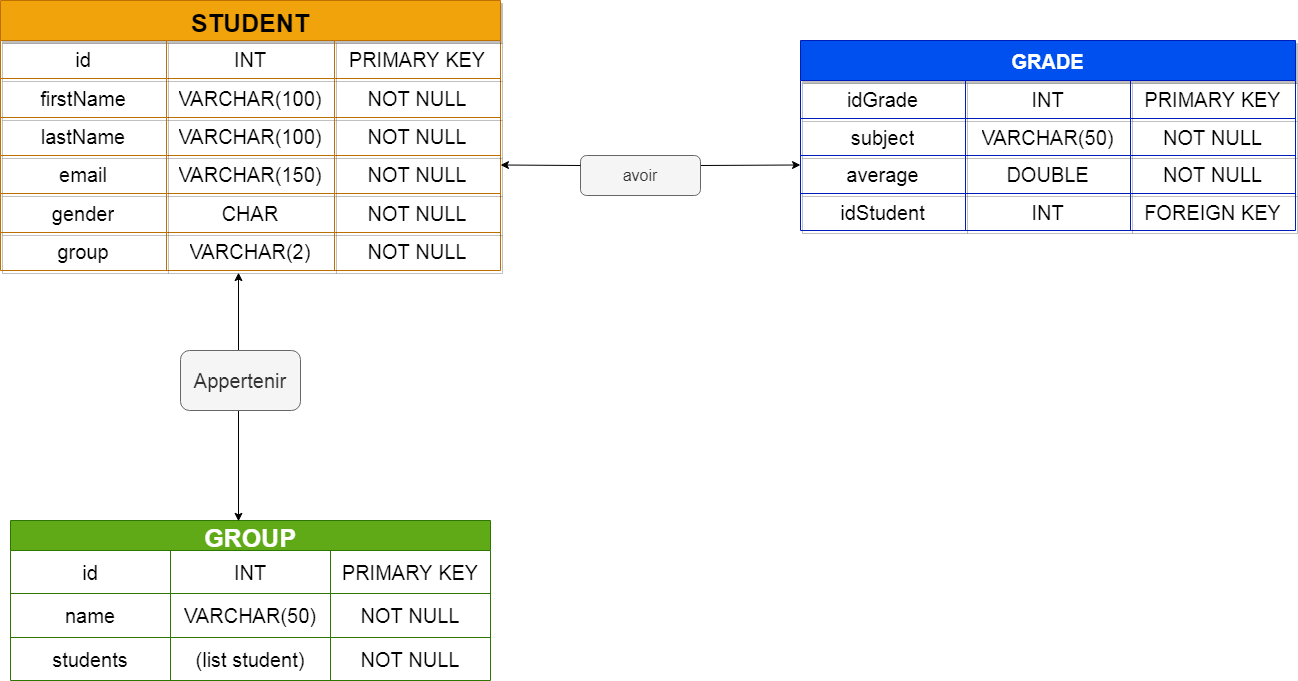
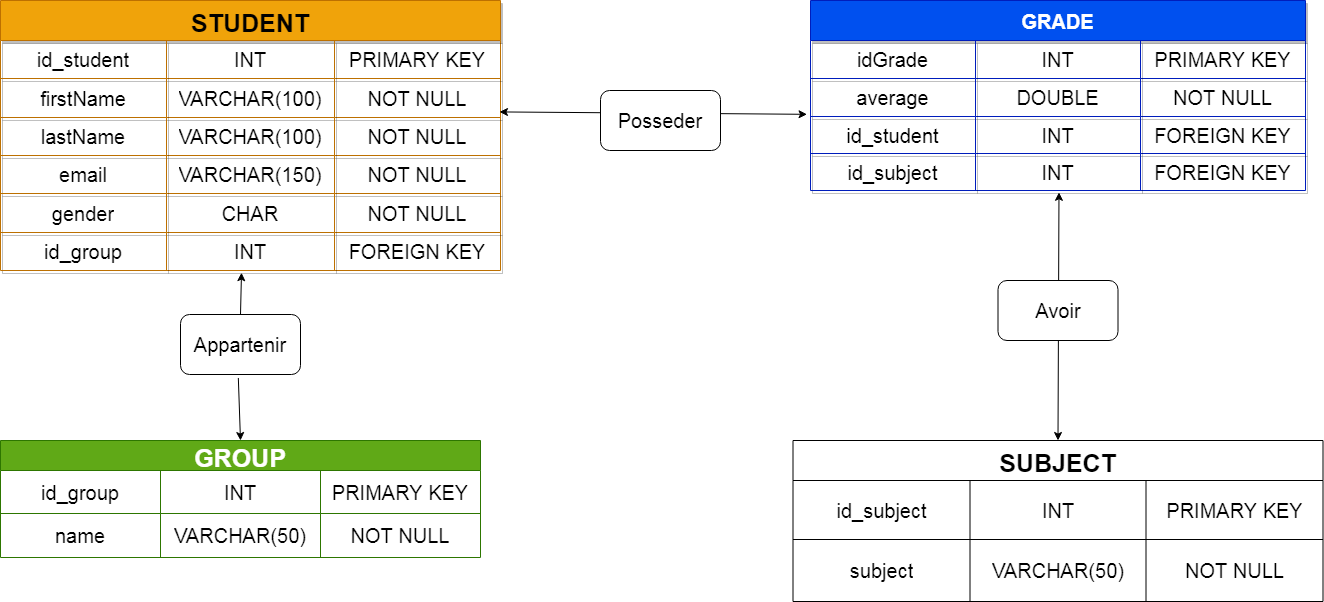
update database image

diff --git a/note-hei/src/main/java/com/hei/notehei/model/Group.java b/note-hei/src/main/java/com/hei/notehei/model/Group.java
@@ -12,7 +12,7 @@ import java.util.List;
 @ToString
 @EqualsAndHashCode
 @Entity
-@Table
+@Table(name = "T_group")
 public class Group implements Serializable{
     @Id
     @GeneratedValue(strategy = GenerationType.IDENTITY)

diff --git a/note-hei/src/main/java/com/hei/notehei/model/Student.java b/note-hei/src/main/java/com/hei/notehei/model/Student.java
@@ -10,7 +10,7 @@ import lombok.*;
 @Setter
 @EqualsAndHashCode
 @Entity
-@Table
+@Table(name = "T_student")
 public class Student implements Serializable{
     @Id
     @GeneratedValue(strategy = GenerationType.IDENTITY)

diff --git a/note-hei/src/main/java/com/hei/notehei/model/Grade.java b/note-hei/src/main/java/com/hei/notehei/model/Grade.java
@@ -12,7 +12,7 @@ import lombok.*;
 @Setter
 @EqualsAndHashCode
 @Entity
-@Table
+@Table(name = "T_grade")
 public class Grade implements Serializable {
     @Id
     @GeneratedValue(strategy = GenerationType.IDENTITY)
